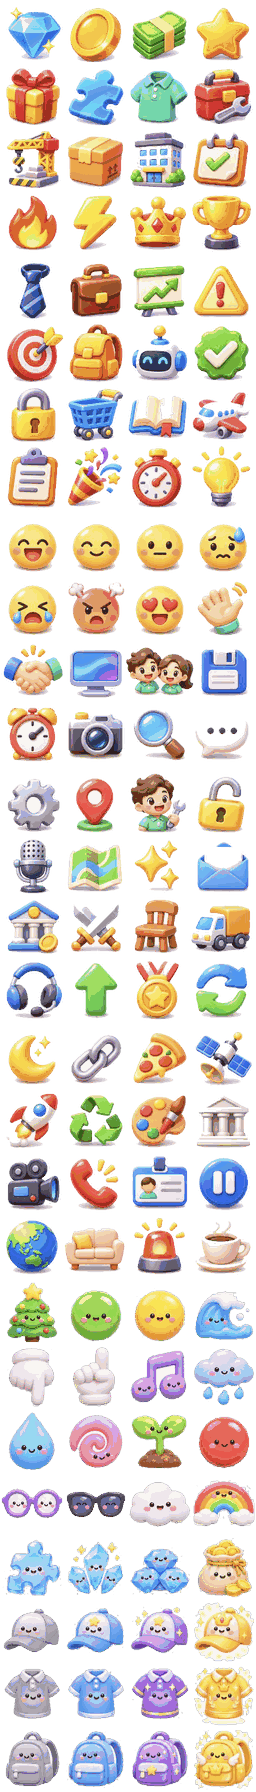
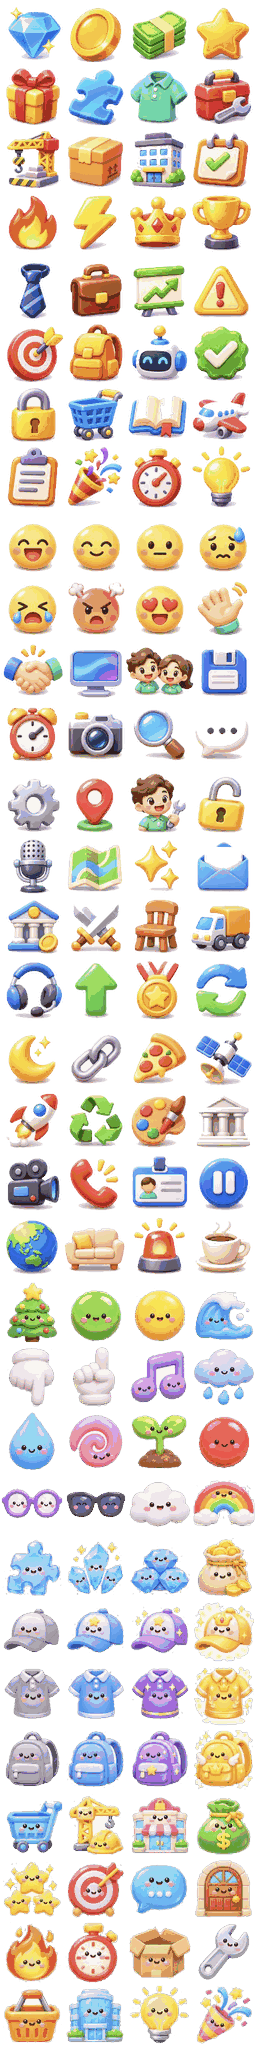
v3.19 WIP7: GPT 새 아이콘 시트8(카트·공사·백화점 등 16종), 캔버스 간판 이모지→아이콘
Claude-Session: https://claude.ai/code/session_01Cv29e3NfFuCjychukHjqmT

diff --git a/index.html b/index.html
@@ -1860,12 +1860,12 @@ body{font-family:var(--b);letter-spacing:-.15px}
 #load .s{color:#2a2a6a!important;font-weight:900!important}
 #ldTipCard{background:rgba(255,255,255,.8)!important;border:1.5px solid #fff!important}
 #load #ldTip{color:#2a2a5a!important}
-#ldCart{width:40px!important;height:40px!important;top:-10px!important;background:url(gi.png) 33.333% 7.4074%/400% 2800% no-repeat;filter:drop-shadow(0 3px 3px rgba(0,0,0,.3))!important}
+#ldCart{width:40px!important;height:40px!important;top:-10px!important;background:url(gi.png?v=319) 0 90.3226%/400% 3200% no-repeat;filter:drop-shadow(0 3px 3px rgba(0,0,0,.3))!important}
 #ldCart>*{display:none!important}
 #ldDoor{display:none!important}
 /* v3.12: 상단 HUD 아이콘도 같은 그림으로 — 돈(동전)·보석·별 */
-#cashPill>svg.ic{display:none!important}#cashPill::before{content:"";flex:none;width:26px;height:26px;background:url(gi.png) 33.333% 0/400% 2800% no-repeat;filter:drop-shadow(0 1px 1px rgba(0,0,0,.2))}
-#gemPill .ci{display:none!important}#gemPill::before{content:"";flex:none;width:24px;height:24px;background:url(gi.png) 0 0/400% 2800% no-repeat}
+#cashPill>svg.ic{display:none!important}#cashPill::before{content:"";flex:none;width:26px;height:26px;background:url(gi.png?v=319) 33.333% 0/400% 3200% no-repeat;filter:drop-shadow(0 1px 1px rgba(0,0,0,.2))}
+#gemPill .ci{display:none!important}#gemPill::before{content:"";flex:none;width:24px;height:24px;background:url(gi.png?v=319) 0 0/400% 3200% no-repeat}
 #v262Go,#tStart{letter-spacing:.5px}
 #modal #mbox #v262Go.hubCta,#modal #mbox #dayGo{background:linear-gradient(#ffe36b,#ffb020 60%,#f39a0a)!important;box-shadow:inset 0 3px 0 rgba(255,255,255,.7),0 6px 0 #b86400,0 12px 22px rgba(180,100,0,.35)!important;color:#fff!important;text-shadow:0 2px 0 #a85a00!important;border:3px solid #fff!important}
 #load .ldMid{flex:1 1 auto!important;justify-content:flex-end!important;padding-bottom:calc(env(safe-area-inset-bottom,0px) + 7vh)!important}
@@ -2309,6 +2309,9 @@ function planterTree(x,z){ try{ v296Contact(x,z,0.84,0.84); }catch(e){} const LI
   box(1.5,0.45,1.5,'#e9e4da',x,LIFT+0.225,z); box(1.62,0.07,1.62,'#c89a62',x,LIFT+0.47,z); box(1.2,0.03,1.2,'#4a3a2a',x,LIFT+0.52,z);
   const t=new THREE.Mesh(gget('tr',()=>new THREE.CylinderGeometry(0.13,0.19,1,10)),tmat('#7a5030')); t.position.set(x,LIFT+1.20,z); t.scale.set(1.1,1.5,1.1); t.castShadow=true; scene.add(t);
   [[0,2.40,0,0.85],[-0.45,2.10,0.25,0.6],[0.45,2.15,-0.2,0.62],[0.15,1.95,0.45,0.5],[-0.2,2.20,-0.45,0.55]].forEach(([dx,y,dz,r],k)=>{ const b=new THREE.Mesh(gget('bl',()=>new THREE.SphereGeometry(1,16,12)),tmat(['#4f9e45','#3f8a3a','#62b153'][k%3])); b.position.set(x+dx,y+LIFT,z+dz); b.scale.set(r,r*0.85,r); b.castShadow=true; b.receiveShadow=false; scene.add(b); }); ob(x-0.8,x+0.8,z-0.8,z+0.8); }
+/* v3.19: 캔버스 간판에 이모지 대신 gi.png 아이콘(셀 64px). 안 불러졌으면 false → 글자 이모지로 대체 */
+window.GIIMG=new Image(); GIIMG.src='gi.png?v=319';
+window.giDraw=function(g,c,r,x,y,s){ try{ if(!GIIMG.complete||!GIIMG.naturalWidth) return false; var cw=GIIMG.naturalWidth/4; g.drawImage(GIIMG,c*cw,r*cw,cw,cw,x-s/2,y-s/2,s,s); return true; }catch(e){ return false; } };
 function canvasTex(draw,w,h){ const cv=document.createElement('canvas'); cv.width=w; cv.height=h; draw(cv.getContext('2d'),w,h); const t=new THREE.CanvasTexture(cv); t.anisotropy=4; return t; }
 
 /* ---------- assets ---------- */
@@ -3154,7 +3157,7 @@ const REPG=new THREE.Group(); scene.add(REPG);
   box(1.62,0.74,0.06,'#0f2a1e',6.9,1.62,-3.59,REPG);
   box(0.07,1.3,0.07,'#39434f',6.15,0.65,-3.59,REPG); box(0.07,1.3,0.07,'#39434f',7.65,0.65,-3.59,REPG);
   const pt=canvasTex((g,w,h)=>{ g.clearRect(0,0,w,h); g.fillStyle='rgba(47,170,69,.9)'; g.beginPath(); g.arc(w/2,h/2,w/2-8,0,7); g.fill(); g.strokeStyle='#fff'; g.lineWidth=9; g.stroke();
-    g.fillStyle='#fff'; g.font='bold 42px "Pretendard",sans-serif'; g.textAlign='center'; g.fillText('수리실',w/2,h/2-12); g.font='bold 24px "Noto Sans KR",sans-serif'; g.fillText('위 🔧 수리실 버튼',w/2,h/2+34); },256,256);
+    g.fillStyle='#fff'; g.font='bold 42px "Pretendard",sans-serif'; g.textAlign='center'; g.fillText('수리실',w/2,h/2-12); g.font='bold 24px "Noto Sans KR",sans-serif'; g.fillText('위 수리실 버튼',w/2,h/2+34); },256,256);
   /* v2.87: 바닥 '수리실' 원판 삭제 — 상단 HUD 🔧 수리실 칩과 중복이고, '진열 보충' 원판과 58% 겹쳐 둘 다 읽히지 않았다.
      안내는 위쪽 수리실 간판(REPG)과 HUD 칩이 맡는다. */
   window.__V287_DISC={repair:0,restock:1};
@@ -3179,7 +3182,7 @@ function rlabBuildWorld(){ try{
   const t=canvasTex(function(g,w,h){ g.fillStyle='#fffaf0'; g.fillRect(0,0,w,h);
     g.fillStyle='#c96a5a'; g.font='bold 54px "Pretendard",sans-serif'; g.textAlign='center'; g.textBaseline='middle';
     g.fillText('수리실',w/2,h/2-18); g.fillStyle='#8a7361'; g.font='bold 24px "Noto Sans KR",sans-serif';
-    g.fillText('🔧 위 🔧 수리실 버튼에서 접수·진행',w/2,h/2+34); },384,168);
+    g.fillText('위 수리실 버튼에서 접수·진행',w/2,h/2+34); },384,168);
   const pm=new THREE.Mesh(new THREE.PlaneGeometry(0.96,0.42),new THREE.MeshBasicMaterial({map:t}));
   pm.position.set(RX,1.42,RZ+0.14); pm.rotation.y=0.18; RG.add(pm);
   try{ var _g=v296GlowPlane(RX,1.42,RZ+0.155,1.02,0.47,'#ffd9b0',0.14,0.18,RG); }catch(e){}
@@ -5775,9 +5778,9 @@ try{ setTimeout(v316AutoGo,1500); }catch(e){}
 (function(){ try{
   var cv=document.createElement('canvas'); cv.width=256; cv.height=256; var g=cv.getContext('2d'); var tex=new THREE.CanvasTexture(cv);
   var m=new THREE.Mesh(new THREE.PlaneGeometry(1.5,1.5),new THREE.MeshBasicMaterial({map:tex,transparent:true,depthWrite:false})); m.rotation.x=-Math.PI/2; m.position.set(-0.9,0.06,-8.3); m.renderOrder=2; m.visible=false; scene.add(m);
-  var lastTxt='', hold=0, armed=true;
+  var lastTxt='', hold=0, armed=true; GIIMG.addEventListener('load',function(){ lastTxt=''; });
   function draw(t1,t2,col){ var k=t1+'|'+t2+'|'+col; if(k===lastTxt) return; lastTxt=k; g.clearRect(0,0,256,256); rr(g,8,8,240,240,36); g.fillStyle='rgba(30,30,50,.84)'; g.fill(); g.lineWidth=8; g.strokeStyle=col; g.stroke();
-    g.font='bold 64px sans-serif'; g.textAlign='center'; g.fillText('🏗',128,92); g.fillStyle='#fff'; g.font='bold 30px "Noto Sans KR",sans-serif'; g.fillText(t1,128,160); g.fillStyle=col; g.font='bold 28px "Noto Sans KR",sans-serif'; g.fillText(t2,128,206); tex.needsUpdate=true; }
+    g.textAlign='center'; if(!giDraw(g,1,28,128,84,92)){ g.font='bold 64px sans-serif'; g.fillText('🏗',128,92); } g.fillStyle='#fff'; g.font='bold 30px "Noto Sans KR",sans-serif'; g.fillText(t1,128,160); g.fillStyle=col; g.font='bold 28px "Noto Sans KR",sans-serif'; g.fillText(t2,128,206); tex.needsUpdate=true; }
   setInterval(function(){ try{
     var st=(typeof STG==='number')?STG:0, n=V285.nFloors(st), d=V285.floorsDone(st);
     var up=false; try{ up=typeof V287!=='undefined'&&V287.cur&&V287.cur()>0; }catch(_){} var show=!!(n>0&&d<n&&!up&&!(typeof titleOn!=='undefined'&&titleOn)&&S.day>=1);
@@ -7672,7 +7675,7 @@ try{ const st=document.createElement('style'); const I=(c,r)=>'background:url(ui
   '#v285brBtn>svg{display:none!important}#v285brBtn::before{content:"";display:block;width:30px;height:30px;margin:0 auto;'+I(2,2)+'}';
   document.head.appendChild(st); }catch(e){}
 /* v3.12: 이모지 → 게임 그림 아이콘(gi.png 4×4, ChatGPT). 창(svgify)·토스트·HUD·말풍선 글자 속 이모지를 같은 화풍 그림으로 바꾼다 */
-var GIROWS=28; var GI={'🎄':[0,20],'🟢':[1,20],'🟡':[2,20],'🌊':[3,20],'👇':[0,21],'👆':[1,21],'♪':[2,21],'🎵':[2,21],'🎶':[2,21],'🌧':[3,21],'🌧':[3,21],'💧':[0,22],'🌀':[1,22],'🌱':[2,22],'🔴':[3,22],'👓':[0,23],'🕶':[1,23],'🕶':[1,23],'☁':[2,23],'☁':[2,23],'🌈':[3,23],'💎':[0,0],'💜':[0,0],'🪙':[1,0],'💵':[2,0],'💰':[2,0],'💲':[2,0],'⭐':[3,0],'🌟':[3,0],'🎁':[0,1],'🧩':[0,24],'👕':[2,1],'🔧':[3,1],'🛠':[3,1],'🛠':[3,1],
+var GIROWS=32; var GI={'🎄':[0,20],'🟢':[1,20],'🟡':[2,20],'🌊':[3,20],'👇':[0,21],'👆':[1,21],'♪':[2,21],'🎵':[2,21],'🎶':[2,21],'🌧':[3,21],'🌧':[3,21],'💧':[0,22],'🌀':[1,22],'🌱':[2,22],'🔴':[3,22],'👓':[0,23],'🕶':[1,23],'🕶':[1,23],'☁':[2,23],'☁':[2,23],'🌈':[3,23],'💎':[0,0],'💜':[0,0],'🪙':[1,0],'💵':[2,0],'💰':[2,0],'💲':[2,0],'⭐':[3,0],'🌟':[3,0],'🎁':[0,1],'🧩':[0,24],'👕':[2,1],'🔧':[3,1],'🛠':[3,1],'🛠':[3,1],
   '🏗':[0,2],'🏗':[0,2],'📦':[1,2],'🏢':[2,2],'🏬':[2,2],'🏪':[2,2],'📅':[3,2],'📆':[3,2],'🗓':[3,2],'🔥':[0,3],'⚡':[1,3],'⚡':[1,3],'👑':[2,3],'🏆':[3,3],
   '👔':[0,4],'💼':[1,4],'📈':[2,4],'📊':[2,4],'⚠':[3,4],'⚠':[3,4],'🎯':[0,5],'🎒':[1,5],'🤖':[2,5],'✅':[3,5],'🔒':[0,6],'🛒':[1,6],'🛍':[1,6],'🛍':[1,6],'📖':[2,6],'📚':[2,6],'✈':[3,6],'✈':[3,6],
   '📋':[0,7],'📝':[0,7],'🎉':[1,7],'🎊':[1,7],'⏱':[2,7],'⏱':[2,7],'⏳':[2,7],'💡':[3,7],
@@ -7693,9 +7696,10 @@ var GIROWS=28; var GI={'🎄':[0,20],'🟢':[1,20],'🟡':[2,20],'🌊':[3,20],'
 var GIK=Object.keys(GI).sort(function(a,b){ return b.length-a.length; });
 var GIRE=new RegExp('('+GIK.map(function(k){ return k.replace(/[.*+?^${}()|[\]\\]/g,'\\$&'); }).join('|')+')\\uFE0F?','g');
 /* v3.12: 원래 이모지 글자를 투명하게 안에 남긴다 — textContent 비교로 갱신하는 코드가 매 프레임 다시 쓰며 깜빡이던 문제 방지 */
+/* v3.19 시트8(GPT 새 아이콘) */ (function(){ var N={"🛒":[0,28],"🛍":[0,28],"🛍":[0,28],"🏗":[1,28],"🏗":[1,28],"🏬":[2,28],"🏪":[2,28],"💰":[3,28],"✨":[0,29],"✦":[0,29],"🎯":[1,29],"💬":[2,29],"🚪":[3,29],"🔥":[0,30],"⏱":[1,30],"⏱":[1,30],"⏳":[1,30],"⌛":[1,30],"⌚":[1,30],"📦":[2,30],"🗑":[2,30],"🗑":[2,30],"🔧":[3,30],"🛠":[3,30],"🛠":[3,30],"🧰":[3,30],"🩹":[3,30],"🧺":[0,31],"🏢":[1,31],"🏙":[1,31],"🏙":[1,31],"💡":[2,31],"🧪":[2,31],"🔬":[2,31],"🎉":[3,31],"🎊":[3,31]}; for(var k in N) GI[k]=N[k]; })();
 function giAt(c,r,m){ return '<i class="gi" style="background-position:'+(c*100/3).toFixed(3)+'% '+(r*100/(GIROWS-1)).toFixed(4)+'%">'+(m||'')+'</i>'; }
 function giSpan(k,m){ var p=GI[k]||GI[k.replace(//g,'')]; return '<i class="gi" style="background-position:'+(p[0]*100/3).toFixed(3)+'% '+(p[1]*100/(GIROWS-1)).toFixed(4)+'%">'+(m||'')+'</i>'; }
-try{ const st=document.createElement('style'); st.textContent='.psn .gi,.psn .v29i,em .gi,small .gi,.tg .gi{width:1.05em!important;height:1.05em!important;vertical-align:-.2em}.psn{display:inline-flex!important;align-items:center;gap:2px}.gi{display:inline-block;width:1.2em;height:1.2em;vertical-align:-.24em;margin:0 .06em;background-image:url(gi.png);background-size:400% 2800%;background-repeat:no-repeat;font-style:normal;flex:none;color:transparent!important;overflow:hidden;text-indent:-99em;white-space:nowrap;user-select:none;-webkit-user-select:none;text-shadow:none!important}.gic{display:inline-flex;align-items:center;justify-content:center}.gic .gi{width:1.7em!important;height:1.7em!important;margin:0!important;vertical-align:middle}.gic.big .gi{width:46px!important;height:46px!important}'; document.head.appendChild(st); }catch(e){}
+try{ const st=document.createElement('style'); st.textContent='.psn .gi,.psn .v29i,em .gi,small .gi,.tg .gi{width:1.05em!important;height:1.05em!important;vertical-align:-.2em}.psn{display:inline-flex!important;align-items:center;gap:2px}.gi{display:inline-block;width:1.2em;height:1.2em;vertical-align:-.24em;margin:0 .06em;background-image:url(gi.png?v=319);background-size:400% 3200%;background-repeat:no-repeat;font-style:normal;flex:none;color:transparent!important;overflow:hidden;text-indent:-99em;white-space:nowrap;user-select:none;-webkit-user-select:none;text-shadow:none!important}.gic{display:inline-flex;align-items:center;justify-content:center}.gic .gi{width:1.7em!important;height:1.7em!important;margin:0!important;vertical-align:middle}.gic.big .gi{width:46px!important;height:46px!important}'; document.head.appendChild(st); }catch(e){}
 (function(){ try{
   const SKIP={SCRIPT:1,STYLE:1,TEXTAREA:1,INPUT:1,CANVAS:1,svg:1,SVG:1,TITLE:1};
   function fixText(t){ try{ const v=t.nodeValue; if(!v||v.length>600) return; GIRE.lastIndex=0; if(!GIRE.test(v)) return; const p=t.parentNode; if(!p||SKIP[p.nodeName]||(p.closest&&p.closest('svg,[contenteditable],option,select,title,.gi'))) return;
@@ -12362,8 +12366,8 @@ function v278HotDecor(force){ try{
       g.fillStyle='rgba(232,52,42,.92)'; R(2,2,w-4,h-4,22); g.fill();
       g.strokeStyle='#ffd23f'; g.lineWidth=6; R(2,2,w-4,h-4,22); g.stroke();
       g.textAlign='center'; g.textBaseline='middle';
-      g.fillStyle='#ffe14d'; g.font='bold 54px "Pretendard",sans-serif'; g.fillText('🔥 오늘 인기',w*0.29,h*0.5);
-      g.fillStyle='#ffffff'; g.font='bold 52px "Noto Sans KR",sans-serif'; g.fillText(v278HotName(t)+' +'+v278Pct()+'%',w*0.72,h*0.5);
+      g.fillStyle='#ffe14d'; g.font='bold 54px "Pretendard",sans-serif'; if(giDraw(g,0,30,w*0.065,h*0.5,h*0.66)) g.fillText('오늘 인기',w*0.31,h*0.5); else g.fillText('🔥 오늘 인기',w*0.29,h*0.5);
+      g.fillStyle='#ffffff'; g.font='bold 52px "Noto Sans KR",sans-serif'; g.textAlign='left'; g.fillText(v278HotName(t)+' +'+v278Pct()+'%',w*0.555,h*0.5,w*0.43);
     },512,128);
     /* v2.78: 라벨은 '바닥 데칼'로 — 위에서 내려다보는 카메라에서도 항상 읽힌다 */
     if(!V278SL){ V278SL=new THREE.Mesh(new THREE.PlaneGeometry(1.34,0.34),new THREE.MeshBasicMaterial({map:lt,transparent:true,depthWrite:false})); V278SL.rotation.x=-Math.PI/2; V278SL.renderOrder=3; scene.add(V278SL); }

diff --git a/tech.html b/tech.html
@@ -1860,12 +1860,12 @@ body{font-family:var(--b);letter-spacing:-.15px}
 #load .s{color:#2a2a6a!important;font-weight:900!important}
 #ldTipCard{background:rgba(255,255,255,.8)!important;border:1.5px solid #fff!important}
 #load #ldTip{color:#2a2a5a!important}
-#ldCart{width:40px!important;height:40px!important;top:-10px!important;background:url(gi.png) 33.333% 7.4074%/400% 2800% no-repeat;filter:drop-shadow(0 3px 3px rgba(0,0,0,.3))!important}
+#ldCart{width:40px!important;height:40px!important;top:-10px!important;background:url(gi.png?v=319) 0 90.3226%/400% 3200% no-repeat;filter:drop-shadow(0 3px 3px rgba(0,0,0,.3))!important}
 #ldCart>*{display:none!important}
 #ldDoor{display:none!important}
 /* v3.12: 상단 HUD 아이콘도 같은 그림으로 — 돈(동전)·보석·별 */
-#cashPill>svg.ic{display:none!important}#cashPill::before{content:"";flex:none;width:26px;height:26px;background:url(gi.png) 33.333% 0/400% 2800% no-repeat;filter:drop-shadow(0 1px 1px rgba(0,0,0,.2))}
-#gemPill .ci{display:none!important}#gemPill::before{content:"";flex:none;width:24px;height:24px;background:url(gi.png) 0 0/400% 2800% no-repeat}
+#cashPill>svg.ic{display:none!important}#cashPill::before{content:"";flex:none;width:26px;height:26px;background:url(gi.png?v=319) 33.333% 0/400% 3200% no-repeat;filter:drop-shadow(0 1px 1px rgba(0,0,0,.2))}
+#gemPill .ci{display:none!important}#gemPill::before{content:"";flex:none;width:24px;height:24px;background:url(gi.png?v=319) 0 0/400% 3200% no-repeat}
 #v262Go,#tStart{letter-spacing:.5px}
 #modal #mbox #v262Go.hubCta,#modal #mbox #dayGo{background:linear-gradient(#ffe36b,#ffb020 60%,#f39a0a)!important;box-shadow:inset 0 3px 0 rgba(255,255,255,.7),0 6px 0 #b86400,0 12px 22px rgba(180,100,0,.35)!important;color:#fff!important;text-shadow:0 2px 0 #a85a00!important;border:3px solid #fff!important}
 #load .ldMid{flex:1 1 auto!important;justify-content:flex-end!important;padding-bottom:calc(env(safe-area-inset-bottom,0px) + 7vh)!important}
@@ -2309,6 +2309,9 @@ function planterTree(x,z){ try{ v296Contact(x,z,0.84,0.84); }catch(e){} const LI
   box(1.5,0.45,1.5,'#e9e4da',x,LIFT+0.225,z); box(1.62,0.07,1.62,'#c89a62',x,LIFT+0.47,z); box(1.2,0.03,1.2,'#4a3a2a',x,LIFT+0.52,z);
   const t=new THREE.Mesh(gget('tr',()=>new THREE.CylinderGeometry(0.13,0.19,1,10)),tmat('#7a5030')); t.position.set(x,LIFT+1.20,z); t.scale.set(1.1,1.5,1.1); t.castShadow=true; scene.add(t);
   [[0,2.40,0,0.85],[-0.45,2.10,0.25,0.6],[0.45,2.15,-0.2,0.62],[0.15,1.95,0.45,0.5],[-0.2,2.20,-0.45,0.55]].forEach(([dx,y,dz,r],k)=>{ const b=new THREE.Mesh(gget('bl',()=>new THREE.SphereGeometry(1,16,12)),tmat(['#4f9e45','#3f8a3a','#62b153'][k%3])); b.position.set(x+dx,y+LIFT,z+dz); b.scale.set(r,r*0.85,r); b.castShadow=true; b.receiveShadow=false; scene.add(b); }); ob(x-0.8,x+0.8,z-0.8,z+0.8); }
+/* v3.19: 캔버스 간판에 이모지 대신 gi.png 아이콘(셀 64px). 안 불러졌으면 false → 글자 이모지로 대체 */
+window.GIIMG=new Image(); GIIMG.src='gi.png?v=319';
+window.giDraw=function(g,c,r,x,y,s){ try{ if(!GIIMG.complete||!GIIMG.naturalWidth) return false; var cw=GIIMG.naturalWidth/4; g.drawImage(GIIMG,c*cw,r*cw,cw,cw,x-s/2,y-s/2,s,s); return true; }catch(e){ return false; } };
 function canvasTex(draw,w,h){ const cv=document.createElement('canvas'); cv.width=w; cv.height=h; draw(cv.getContext('2d'),w,h); const t=new THREE.CanvasTexture(cv); t.anisotropy=4; return t; }
 
 /* ---------- assets ---------- */
@@ -3154,7 +3157,7 @@ const REPG=new THREE.Group(); scene.add(REPG);
   box(1.62,0.74,0.06,'#0f2a1e',6.9,1.62,-3.59,REPG);
   box(0.07,1.3,0.07,'#39434f',6.15,0.65,-3.59,REPG); box(0.07,1.3,0.07,'#39434f',7.65,0.65,-3.59,REPG);
   const pt=canvasTex((g,w,h)=>{ g.clearRect(0,0,w,h); g.fillStyle='rgba(47,170,69,.9)'; g.beginPath(); g.arc(w/2,h/2,w/2-8,0,7); g.fill(); g.strokeStyle='#fff'; g.lineWidth=9; g.stroke();
-    g.fillStyle='#fff'; g.font='bold 42px "Pretendard",sans-serif'; g.textAlign='center'; g.fillText('수리실',w/2,h/2-12); g.font='bold 24px "Noto Sans KR",sans-serif'; g.fillText('위 🔧 수리실 버튼',w/2,h/2+34); },256,256);
+    g.fillStyle='#fff'; g.font='bold 42px "Pretendard",sans-serif'; g.textAlign='center'; g.fillText('수리실',w/2,h/2-12); g.font='bold 24px "Noto Sans KR",sans-serif'; g.fillText('위 수리실 버튼',w/2,h/2+34); },256,256);
   /* v2.87: 바닥 '수리실' 원판 삭제 — 상단 HUD 🔧 수리실 칩과 중복이고, '진열 보충' 원판과 58% 겹쳐 둘 다 읽히지 않았다.
      안내는 위쪽 수리실 간판(REPG)과 HUD 칩이 맡는다. */
   window.__V287_DISC={repair:0,restock:1};
@@ -3179,7 +3182,7 @@ function rlabBuildWorld(){ try{
   const t=canvasTex(function(g,w,h){ g.fillStyle='#fffaf0'; g.fillRect(0,0,w,h);
     g.fillStyle='#c96a5a'; g.font='bold 54px "Pretendard",sans-serif'; g.textAlign='center'; g.textBaseline='middle';
     g.fillText('수리실',w/2,h/2-18); g.fillStyle='#8a7361'; g.font='bold 24px "Noto Sans KR",sans-serif';
-    g.fillText('🔧 위 🔧 수리실 버튼에서 접수·진행',w/2,h/2+34); },384,168);
+    g.fillText('위 수리실 버튼에서 접수·진행',w/2,h/2+34); },384,168);
   const pm=new THREE.Mesh(new THREE.PlaneGeometry(0.96,0.42),new THREE.MeshBasicMaterial({map:t}));
   pm.position.set(RX,1.42,RZ+0.14); pm.rotation.y=0.18; RG.add(pm);
   try{ var _g=v296GlowPlane(RX,1.42,RZ+0.155,1.02,0.47,'#ffd9b0',0.14,0.18,RG); }catch(e){}
@@ -5775,9 +5778,9 @@ try{ setTimeout(v316AutoGo,1500); }catch(e){}
 (function(){ try{
   var cv=document.createElement('canvas'); cv.width=256; cv.height=256; var g=cv.getContext('2d'); var tex=new THREE.CanvasTexture(cv);
   var m=new THREE.Mesh(new THREE.PlaneGeometry(1.5,1.5),new THREE.MeshBasicMaterial({map:tex,transparent:true,depthWrite:false})); m.rotation.x=-Math.PI/2; m.position.set(-0.9,0.06,-8.3); m.renderOrder=2; m.visible=false; scene.add(m);
-  var lastTxt='', hold=0, armed=true;
+  var lastTxt='', hold=0, armed=true; GIIMG.addEventListener('load',function(){ lastTxt=''; });
   function draw(t1,t2,col){ var k=t1+'|'+t2+'|'+col; if(k===lastTxt) return; lastTxt=k; g.clearRect(0,0,256,256); rr(g,8,8,240,240,36); g.fillStyle='rgba(30,30,50,.84)'; g.fill(); g.lineWidth=8; g.strokeStyle=col; g.stroke();
-    g.font='bold 64px sans-serif'; g.textAlign='center'; g.fillText('🏗',128,92); g.fillStyle='#fff'; g.font='bold 30px "Noto Sans KR",sans-serif'; g.fillText(t1,128,160); g.fillStyle=col; g.font='bold 28px "Noto Sans KR",sans-serif'; g.fillText(t2,128,206); tex.needsUpdate=true; }
+    g.textAlign='center'; if(!giDraw(g,1,28,128,84,92)){ g.font='bold 64px sans-serif'; g.fillText('🏗',128,92); } g.fillStyle='#fff'; g.font='bold 30px "Noto Sans KR",sans-serif'; g.fillText(t1,128,160); g.fillStyle=col; g.font='bold 28px "Noto Sans KR",sans-serif'; g.fillText(t2,128,206); tex.needsUpdate=true; }
   setInterval(function(){ try{
     var st=(typeof STG==='number')?STG:0, n=V285.nFloors(st), d=V285.floorsDone(st);
     var up=false; try{ up=typeof V287!=='undefined'&&V287.cur&&V287.cur()>0; }catch(_){} var show=!!(n>0&&d<n&&!up&&!(typeof titleOn!=='undefined'&&titleOn)&&S.day>=1);
@@ -7672,7 +7675,7 @@ try{ const st=document.createElement('style'); const I=(c,r)=>'background:url(ui
   '#v285brBtn>svg{display:none!important}#v285brBtn::before{content:"";display:block;width:30px;height:30px;margin:0 auto;'+I(2,2)+'}';
   document.head.appendChild(st); }catch(e){}
 /* v3.12: 이모지 → 게임 그림 아이콘(gi.png 4×4, ChatGPT). 창(svgify)·토스트·HUD·말풍선 글자 속 이모지를 같은 화풍 그림으로 바꾼다 */
-var GIROWS=28; var GI={'🎄':[0,20],'🟢':[1,20],'🟡':[2,20],'🌊':[3,20],'👇':[0,21],'👆':[1,21],'♪':[2,21],'🎵':[2,21],'🎶':[2,21],'🌧':[3,21],'🌧':[3,21],'💧':[0,22],'🌀':[1,22],'🌱':[2,22],'🔴':[3,22],'👓':[0,23],'🕶':[1,23],'🕶':[1,23],'☁':[2,23],'☁':[2,23],'🌈':[3,23],'💎':[0,0],'💜':[0,0],'🪙':[1,0],'💵':[2,0],'💰':[2,0],'💲':[2,0],'⭐':[3,0],'🌟':[3,0],'🎁':[0,1],'🧩':[0,24],'👕':[2,1],'🔧':[3,1],'🛠':[3,1],'🛠':[3,1],
+var GIROWS=32; var GI={'🎄':[0,20],'🟢':[1,20],'🟡':[2,20],'🌊':[3,20],'👇':[0,21],'👆':[1,21],'♪':[2,21],'🎵':[2,21],'🎶':[2,21],'🌧':[3,21],'🌧':[3,21],'💧':[0,22],'🌀':[1,22],'🌱':[2,22],'🔴':[3,22],'👓':[0,23],'🕶':[1,23],'🕶':[1,23],'☁':[2,23],'☁':[2,23],'🌈':[3,23],'💎':[0,0],'💜':[0,0],'🪙':[1,0],'💵':[2,0],'💰':[2,0],'💲':[2,0],'⭐':[3,0],'🌟':[3,0],'🎁':[0,1],'🧩':[0,24],'👕':[2,1],'🔧':[3,1],'🛠':[3,1],'🛠':[3,1],
   '🏗':[0,2],'🏗':[0,2],'📦':[1,2],'🏢':[2,2],'🏬':[2,2],'🏪':[2,2],'📅':[3,2],'📆':[3,2],'🗓':[3,2],'🔥':[0,3],'⚡':[1,3],'⚡':[1,3],'👑':[2,3],'🏆':[3,3],
   '👔':[0,4],'💼':[1,4],'📈':[2,4],'📊':[2,4],'⚠':[3,4],'⚠':[3,4],'🎯':[0,5],'🎒':[1,5],'🤖':[2,5],'✅':[3,5],'🔒':[0,6],'🛒':[1,6],'🛍':[1,6],'🛍':[1,6],'📖':[2,6],'📚':[2,6],'✈':[3,6],'✈':[3,6],
   '📋':[0,7],'📝':[0,7],'🎉':[1,7],'🎊':[1,7],'⏱':[2,7],'⏱':[2,7],'⏳':[2,7],'💡':[3,7],
@@ -7693,9 +7696,10 @@ var GIROWS=28; var GI={'🎄':[0,20],'🟢':[1,20],'🟡':[2,20],'🌊':[3,20],'
 var GIK=Object.keys(GI).sort(function(a,b){ return b.length-a.length; });
 var GIRE=new RegExp('('+GIK.map(function(k){ return k.replace(/[.*+?^${}()|[\]\\]/g,'\\$&'); }).join('|')+')\\uFE0F?','g');
 /* v3.12: 원래 이모지 글자를 투명하게 안에 남긴다 — textContent 비교로 갱신하는 코드가 매 프레임 다시 쓰며 깜빡이던 문제 방지 */
+/* v3.19 시트8(GPT 새 아이콘) */ (function(){ var N={"🛒":[0,28],"🛍":[0,28],"🛍":[0,28],"🏗":[1,28],"🏗":[1,28],"🏬":[2,28],"🏪":[2,28],"💰":[3,28],"✨":[0,29],"✦":[0,29],"🎯":[1,29],"💬":[2,29],"🚪":[3,29],"🔥":[0,30],"⏱":[1,30],"⏱":[1,30],"⏳":[1,30],"⌛":[1,30],"⌚":[1,30],"📦":[2,30],"🗑":[2,30],"🗑":[2,30],"🔧":[3,30],"🛠":[3,30],"🛠":[3,30],"🧰":[3,30],"🩹":[3,30],"🧺":[0,31],"🏢":[1,31],"🏙":[1,31],"🏙":[1,31],"💡":[2,31],"🧪":[2,31],"🔬":[2,31],"🎉":[3,31],"🎊":[3,31]}; for(var k in N) GI[k]=N[k]; })();
 function giAt(c,r,m){ return '<i class="gi" style="background-position:'+(c*100/3).toFixed(3)+'% '+(r*100/(GIROWS-1)).toFixed(4)+'%">'+(m||'')+'</i>'; }
 function giSpan(k,m){ var p=GI[k]||GI[k.replace(//g,'')]; return '<i class="gi" style="background-position:'+(p[0]*100/3).toFixed(3)+'% '+(p[1]*100/(GIROWS-1)).toFixed(4)+'%">'+(m||'')+'</i>'; }
-try{ const st=document.createElement('style'); st.textContent='.psn .gi,.psn .v29i,em .gi,small .gi,.tg .gi{width:1.05em!important;height:1.05em!important;vertical-align:-.2em}.psn{display:inline-flex!important;align-items:center;gap:2px}.gi{display:inline-block;width:1.2em;height:1.2em;vertical-align:-.24em;margin:0 .06em;background-image:url(gi.png);background-size:400% 2800%;background-repeat:no-repeat;font-style:normal;flex:none;color:transparent!important;overflow:hidden;text-indent:-99em;white-space:nowrap;user-select:none;-webkit-user-select:none;text-shadow:none!important}.gic{display:inline-flex;align-items:center;justify-content:center}.gic .gi{width:1.7em!important;height:1.7em!important;margin:0!important;vertical-align:middle}.gic.big .gi{width:46px!important;height:46px!important}'; document.head.appendChild(st); }catch(e){}
+try{ const st=document.createElement('style'); st.textContent='.psn .gi,.psn .v29i,em .gi,small .gi,.tg .gi{width:1.05em!important;height:1.05em!important;vertical-align:-.2em}.psn{display:inline-flex!important;align-items:center;gap:2px}.gi{display:inline-block;width:1.2em;height:1.2em;vertical-align:-.24em;margin:0 .06em;background-image:url(gi.png?v=319);background-size:400% 3200%;background-repeat:no-repeat;font-style:normal;flex:none;color:transparent!important;overflow:hidden;text-indent:-99em;white-space:nowrap;user-select:none;-webkit-user-select:none;text-shadow:none!important}.gic{display:inline-flex;align-items:center;justify-content:center}.gic .gi{width:1.7em!important;height:1.7em!important;margin:0!important;vertical-align:middle}.gic.big .gi{width:46px!important;height:46px!important}'; document.head.appendChild(st); }catch(e){}
 (function(){ try{
   const SKIP={SCRIPT:1,STYLE:1,TEXTAREA:1,INPUT:1,CANVAS:1,svg:1,SVG:1,TITLE:1};
   function fixText(t){ try{ const v=t.nodeValue; if(!v||v.length>600) return; GIRE.lastIndex=0; if(!GIRE.test(v)) return; const p=t.parentNode; if(!p||SKIP[p.nodeName]||(p.closest&&p.closest('svg,[contenteditable],option,select,title,.gi'))) return;
@@ -12362,8 +12366,8 @@ function v278HotDecor(force){ try{
       g.fillStyle='rgba(232,52,42,.92)'; R(2,2,w-4,h-4,22); g.fill();
       g.strokeStyle='#ffd23f'; g.lineWidth=6; R(2,2,w-4,h-4,22); g.stroke();
       g.textAlign='center'; g.textBaseline='middle';
-      g.fillStyle='#ffe14d'; g.font='bold 54px "Pretendard",sans-serif'; g.fillText('🔥 오늘 인기',w*0.29,h*0.5);
-      g.fillStyle='#ffffff'; g.font='bold 52px "Noto Sans KR",sans-serif'; g.fillText(v278HotName(t)+' +'+v278Pct()+'%',w*0.72,h*0.5);
+      g.fillStyle='#ffe14d'; g.font='bold 54px "Pretendard",sans-serif'; if(giDraw(g,0,30,w*0.065,h*0.5,h*0.66)) g.fillText('오늘 인기',w*0.31,h*0.5); else g.fillText('🔥 오늘 인기',w*0.29,h*0.5);
+      g.fillStyle='#ffffff'; g.font='bold 52px "Noto Sans KR",sans-serif'; g.textAlign='left'; g.fillText(v278HotName(t)+' +'+v278Pct()+'%',w*0.555,h*0.5,w*0.43);
     },512,128);
     /* v2.78: 라벨은 '바닥 데칼'로 — 위에서 내려다보는 카메라에서도 항상 읽힌다 */
     if(!V278SL){ V278SL=new THREE.Mesh(new THREE.PlaneGeometry(1.34,0.34),new THREE.MeshBasicMaterial({map:lt,transparent:true,depthWrite:false})); V278SL.rotation.x=-Math.PI/2; V278SL.renderOrder=3; scene.add(V278SL); }

diff --git a/tech-test.html b/tech-test.html
@@ -4303,9 +4303,9 @@ try{ setTimeout(v316AutoGo,1500); }catch(e){}
 (function(){ try{
   var cv=document.createElement('canvas'); cv.width=256; cv.height=256; var g=cv.getContext('2d'); var tex=new THREE.CanvasTexture(cv);
   var m=new THREE.Mesh(new THREE.PlaneGeometry(1.5,1.5),new THREE.MeshBasicMaterial({map:tex,transparent:true,depthWrite:false})); m.rotation.x=-Math.PI/2; m.position.set(-0.9,0.06,-8.3); m.renderOrder=2; m.visible=false; scene.add(m);
-  var lastTxt='', hold=0, armed=true;
+  var lastTxt='', hold=0, armed=true; GIIMG.addEventListener('load',function(){ lastTxt=''; });
   function draw(t1,t2,col){ var k=t1+'|'+t2+'|'+col; if(k===lastTxt) return; lastTxt=k; g.clearRect(0,0,256,256); rr(g,8,8,240,240,36); g.fillStyle='rgba(30,30,50,.84)'; g.fill(); g.lineWidth=8; g.strokeStyle=col; g.stroke();
-    g.font='bold 64px sans-serif'; g.textAlign='center'; g.fillText('🏗',128,92); g.fillStyle='#fff'; g.font='bold 30px "Noto Sans KR",sans-serif'; g.fillText(t1,128,160); g.fillStyle=col; g.font='bold 28px "Noto Sans KR",sans-serif'; g.fillText(t2,128,206); tex.needsUpdate=true; }
+    g.textAlign='center'; if(!giDraw(g,1,28,128,84,92)){ g.font='bold 64px sans-serif'; g.fillText('🏗',128,92); } g.fillStyle='#fff'; g.font='bold 30px "Noto Sans KR",sans-serif'; g.fillText(t1,128,160); g.fillStyle=col; g.font='bold 28px "Noto Sans KR",sans-serif'; g.fillText(t2,128,206); tex.needsUpdate=true; }
   setInterval(function(){ try{
     var st=(typeof STG==='number')?STG:0, n=V285.nFloors(st), d=V285.floorsDone(st);
     var up=false; try{ up=typeof V287!=='undefined'&&V287.cur&&V287.cur()>0; }catch(_){} var show=!!(n>0&&d<n&&!up&&!(typeof titleOn!=='undefined'&&titleOn)&&S.day>=1);
@@ -6201,7 +6201,7 @@ try{ const st=document.createElement('style'); const I=(c,r)=>'background:url(ui
   '#v285brBtn>svg{display:none!important}#v285brBtn::before{content:"";display:block;width:30px;height:30px;margin:0 auto;'+I(2,2)+'}';
   document.head.appendChild(st); }catch(e){}
 /* v3.12: 이모지 → 게임 그림 아이콘(gi.png 4×4, ChatGPT). 창(svgify)·토스트·HUD·말풍선 글자 속 이모지를 같은 화풍 그림으로 바꾼다 */
-var GIROWS=28; var GI={'🎄':[0,20],'🟢':[1,20],'🟡':[2,20],'🌊':[3,20],'👇':[0,21],'👆':[1,21],'♪':[2,21],'🎵':[2,21],'🎶':[2,21],'🌧':[3,21],'🌧':[3,21],'💧':[0,22],'🌀':[1,22],'🌱':[2,22],'🔴':[3,22],'👓':[0,23],'🕶':[1,23],'🕶':[1,23],'☁':[2,23],'☁':[2,23],'🌈':[3,23],'💎':[0,0],'💜':[0,0],'🪙':[1,0],'💵':[2,0],'💰':[2,0],'💲':[2,0],'⭐':[3,0],'🌟':[3,0],'🎁':[0,1],'🧩':[0,24],'👕':[2,1],'🔧':[3,1],'🛠':[3,1],'🛠':[3,1],
+var GIROWS=32; var GI={'🎄':[0,20],'🟢':[1,20],'🟡':[2,20],'🌊':[3,20],'👇':[0,21],'👆':[1,21],'♪':[2,21],'🎵':[2,21],'🎶':[2,21],'🌧':[3,21],'🌧':[3,21],'💧':[0,22],'🌀':[1,22],'🌱':[2,22],'🔴':[3,22],'👓':[0,23],'🕶':[1,23],'🕶':[1,23],'☁':[2,23],'☁':[2,23],'🌈':[3,23],'💎':[0,0],'💜':[0,0],'🪙':[1,0],'💵':[2,0],'💰':[2,0],'💲':[2,0],'⭐':[3,0],'🌟':[3,0],'🎁':[0,1],'🧩':[0,24],'👕':[2,1],'🔧':[3,1],'🛠':[3,1],'🛠':[3,1],
   '🏗':[0,2],'🏗':[0,2],'📦':[1,2],'🏢':[2,2],'🏬':[2,2],'🏪':[2,2],'📅':[3,2],'📆':[3,2],'🗓':[3,2],'🔥':[0,3],'⚡':[1,3],'⚡':[1,3],'👑':[2,3],'🏆':[3,3],
   '👔':[0,4],'💼':[1,4],'📈':[2,4],'📊':[2,4],'⚠':[3,4],'⚠':[3,4],'🎯':[0,5],'🎒':[1,5],'🤖':[2,5],'✅':[3,5],'🔒':[0,6],'🛒':[1,6],'🛍':[1,6],'🛍':[1,6],'📖':[2,6],'📚':[2,6],'✈':[3,6],'✈':[3,6],
   '📋':[0,7],'📝':[0,7],'🎉':[1,7],'🎊':[1,7],'⏱':[2,7],'⏱':[2,7],'⏳':[2,7],'💡':[3,7],
@@ -6222,9 +6222,10 @@ var GIROWS=28; var GI={'🎄':[0,20],'🟢':[1,20],'🟡':[2,20],'🌊':[3,20],'
 var GIK=Object.keys(GI).sort(function(a,b){ return b.length-a.length; });
 var GIRE=new RegExp('('+GIK.map(function(k){ return k.replace(/[.*+?^${}()|[\]\\]/g,'\\$&'); }).join('|')+')\\uFE0F?','g');
 /* v3.12: 원래 이모지 글자를 투명하게 안에 남긴다 — textContent 비교로 갱신하는 코드가 매 프레임 다시 쓰며 깜빡이던 문제 방지 */
+/* v3.19 시트8(GPT 새 아이콘) */ (function(){ var N={"🛒":[0,28],"🛍":[0,28],"🛍":[0,28],"🏗":[1,28],"🏗":[1,28],"🏬":[2,28],"🏪":[2,28],"💰":[3,28],"✨":[0,29],"✦":[0,29],"🎯":[1,29],"💬":[2,29],"🚪":[3,29],"🔥":[0,30],"⏱":[1,30],"⏱":[1,30],"⏳":[1,30],"⌛":[1,30],"⌚":[1,30],"📦":[2,30],"🗑":[2,30],"🗑":[2,30],"🔧":[3,30],"🛠":[3,30],"🛠":[3,30],"🧰":[3,30],"🩹":[3,30],"🧺":[0,31],"🏢":[1,31],"🏙":[1,31],"🏙":[1,31],"💡":[2,31],"🧪":[2,31],"🔬":[2,31],"🎉":[3,31],"🎊":[3,31]}; for(var k in N) GI[k]=N[k]; })();
 function giAt(c,r,m){ return '<i class="gi" style="background-position:'+(c*100/3).toFixed(3)+'% '+(r*100/(GIROWS-1)).toFixed(4)+'%">'+(m||'')+'</i>'; }
 function giSpan(k,m){ var p=GI[k]||GI[k.replace(//g,'')]; return '<i class="gi" style="background-position:'+(p[0]*100/3).toFixed(3)+'% '+(p[1]*100/(GIROWS-1)).toFixed(4)+'%">'+(m||'')+'</i>'; }
-try{ const st=document.createElement('style'); st.textContent='.psn .gi,.psn .v29i,em .gi,small .gi,.tg .gi{width:1.05em!important;height:1.05em!important;vertical-align:-.2em}.psn{display:inline-flex!important;align-items:center;gap:2px}.gi{display:inline-block;width:1.2em;height:1.2em;vertical-align:-.24em;margin:0 .06em;background-image:url(gi.png);background-size:400% 2800%;background-repeat:no-repeat;font-style:normal;flex:none;color:transparent!important;overflow:hidden;text-indent:-99em;white-space:nowrap;user-select:none;-webkit-user-select:none;text-shadow:none!important}.gic{display:inline-flex;align-items:center;justify-content:center}.gic .gi{width:1.7em!important;height:1.7em!important;margin:0!important;vertical-align:middle}.gic.big .gi{width:46px!important;height:46px!important}'; document.head.appendChild(st); }catch(e){}
+try{ const st=document.createElement('style'); st.textContent='.psn .gi,.psn .v29i,em .gi,small .gi,.tg .gi{width:1.05em!important;height:1.05em!important;vertical-align:-.2em}.psn{display:inline-flex!important;align-items:center;gap:2px}.gi{display:inline-block;width:1.2em;height:1.2em;vertical-align:-.24em;margin:0 .06em;background-image:url(gi.png?v=319);background-size:400% 3200%;background-repeat:no-repeat;font-style:normal;flex:none;color:transparent!important;overflow:hidden;text-indent:-99em;white-space:nowrap;user-select:none;-webkit-user-select:none;text-shadow:none!important}.gic{display:inline-flex;align-items:center;justify-content:center}.gic .gi{width:1.7em!important;height:1.7em!important;margin:0!important;vertical-align:middle}.gic.big .gi{width:46px!important;height:46px!important}'; document.head.appendChild(st); }catch(e){}
 (function(){ try{
   const SKIP={SCRIPT:1,STYLE:1,TEXTAREA:1,INPUT:1,CANVAS:1,svg:1,SVG:1,TITLE:1};
   function fixText(t){ try{ const v=t.nodeValue; if(!v||v.length>600) return; GIRE.lastIndex=0; if(!GIRE.test(v)) return; const p=t.parentNode; if(!p||SKIP[p.nodeName]||(p.closest&&p.closest('svg,[contenteditable],option,select,title,.gi'))) return;
@@ -10891,8 +10892,8 @@ function v278HotDecor(force){ try{
       g.fillStyle='rgba(232,52,42,.92)'; R(2,2,w-4,h-4,22); g.fill();
       g.strokeStyle='#ffd23f'; g.lineWidth=6; R(2,2,w-4,h-4,22); g.stroke();
       g.textAlign='center'; g.textBaseline='middle';
-      g.fillStyle='#ffe14d'; g.font='bold 54px "Pretendard",sans-serif'; g.fillText('🔥 오늘 인기',w*0.29,h*0.5);
-      g.fillStyle='#ffffff'; g.font='bold 52px "Noto Sans KR",sans-serif'; g.fillText(v278HotName(t)+' +'+v278Pct()+'%',w*0.72,h*0.5);
+      g.fillStyle='#ffe14d'; g.font='bold 54px "Pretendard",sans-serif'; if(giDraw(g,0,30,w*0.065,h*0.5,h*0.66)) g.fillText('오늘 인기',w*0.31,h*0.5); else g.fillText('🔥 오늘 인기',w*0.29,h*0.5);
+      g.fillStyle='#ffffff'; g.font='bold 52px "Noto Sans KR",sans-serif'; g.textAlign='left'; g.fillText(v278HotName(t)+' +'+v278Pct()+'%',w*0.555,h*0.5,w*0.43);
     },512,128);
     /* v2.78: 라벨은 '바닥 데칼'로 — 위에서 내려다보는 카메라에서도 항상 읽힌다 */
     if(!V278SL){ V278SL=new THREE.Mesh(new THREE.PlaneGeometry(1.34,0.34),new THREE.MeshBasicMaterial({map:lt,transparent:true,depthWrite:false})); V278SL.rotation.x=-Math.PI/2; V278SL.renderOrder=3; scene.add(V278SL); }
